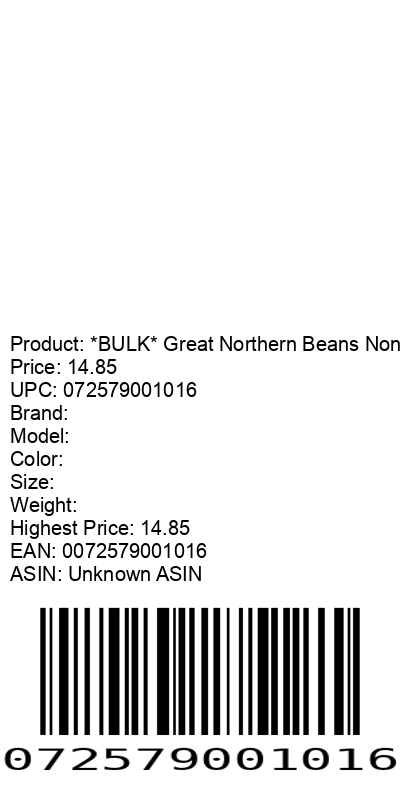
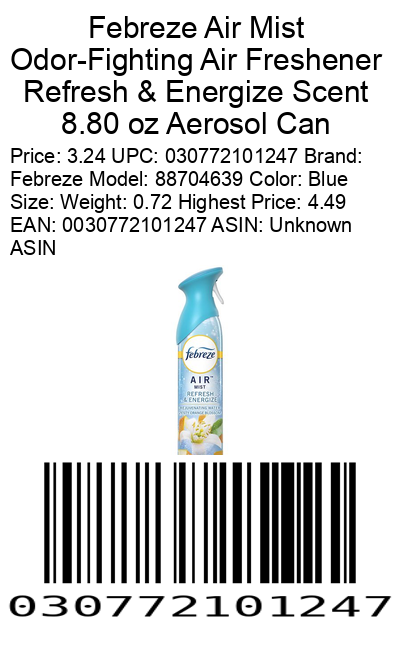
Update .gitignore and enhance UPC data fetching and label printing functionality

Changed region(s): [[0.0, 0.0, 1.0, 0.9846], [0.93, 0.8923, 0.99, 0.9846]]

diff --git a/fetch_upc.py b/fetch_upc.py
@@ -46,7 +46,8 @@ def fetch_upc_data(upc_code: str):
             "weight": item.get("weight", "Unknown Weight"),
             "highest_price": item.get("highest_recorded_price", 0.0),
             "ean": item.get("ean", "Unknown EAN"),
-            "asin": item.get("asin", "Unknown ASIN")
+            "asin": item.get("asin", "Unknown ASIN"),
+            "images": item.get("images", [])
         }
     return {
         "upc": upc_code,
@@ -61,7 +62,8 @@ def fetch_upc_data(upc_code: str):
         "weight": "Unknown Weight",
         "highest_price": 0.0,
         "ean": "Unknown EAN",
-        "asin": "Unknown ASIN"
+        "asin": "Unknown ASIN",
+        "images": []
     }
 
 def generate_barcode(upc_code: str, file_path: str):
@@ -69,48 +71,85 @@ def generate_barcode(upc_code: str, file_path: str):
     barcode_obj.save(file_path.split('.')[0])  # Save without the extension to avoid double extension
 
 def print_label(info: dict, printer_name: str):
-    label_text = (
-        f"Product: {info.get('name')}\n"
-        f"Price: {info.get('price')}\n"
-        f"UPC: {info.get('upc')}\n"
-        f"Brand: {info.get('brand')}\n"
-        f"Model: {info.get('model')}\n"
-        f"Color: {info.get('color')}\n"
-        f"Size: {info.get('size')}\n"
-        f"Weight: {info.get('weight')}\n"
-        f"Highest Price: {info.get('highest_price')}\n"
-        f"EAN: {info.get('ean')}\n"
-        f"ASIN: {info.get('asin')}\n"
-    )
+    product_name = info.get('name')
+    label_text = ""
     
+    if info.get('price') != 0.0:
+        label_text += f"Price: {info.get('price')}\n"
+    if info.get('upc') != "Unknown UPC":
+        label_text += f"UPC: {info.get('upc')}\n"
+    if info.get('brand') != "Unknown Brand":
+        label_text += f"Brand: {info.get('brand')}\n"
+    if info.get('model') != "Unknown Model":
+        label_text += f"Model: {info.get('model')}\n"
+    if info.get('color') != "Unknown Color":
+        label_text += f"Color: {info.get('color')}\n"
+    if info.get('size') != "Unknown Size":
     # Create an image for the label
     label_image = Image.new('RGB', (400, 800), color='white')
     draw = ImageDraw.Draw(label_image)
     
-    # Load a font
+    # Load fonts
     try:
-        font = ImageFont.truetype("arial.ttf", 20)  # Use a larger font size
+        font_large = ImageFont.truetype("arial.ttf", 30)  # Larger font for product name
+        font = ImageFont.truetype("arial.ttf", 20)  # Regular font for other details
     except IOError:
-        font = ImageFont.load_default()  # Fallback to default font if "arial.ttf" is not available
+        font_large = ImageFont.load_default()
+        font = ImageFont.load_default()
+    
+    # Wrap text if it goes off the edge of the label
+    def wrap_text(text, font, max_width):
+        lines = []
+        words = text.split()
+        while words:
+            line = ''
+            while words and draw.textbbox((0, 0), line + words[0], font=font)[2] <= max_width:
+                line += (words.pop(0) + ' ')
+            lines.append(line)
+        return '\n'.join(lines)
+    
+    wrapped_product_name = wrap_text(product_name, font_large, 380)  # 380 to account for padding
+    wrapped_label_text = wrap_text(label_text, font, 380)  # 380 to account for padding
     
     # Calculate text height
-    text_width, text_height = draw.textbbox((0, 0), label_text, font=font)[2:]
+    product_name_width, product_name_height = draw.textbbox((0, 0), wrapped_product_name, font=font_large)[2:]
+    text_width, text_height = draw.textbbox((0, 0), wrapped_label_text, font=font)[2:]
     
-    # Draw the text on the image, ensuring it is justified
-    draw.multiline_text((10, 800 - text_height - 215), label_text, fill='black', font=font)
+    # Adjust label height based on text height
+    label_height = product_name_height + text_height + 415  # Add some padding for the barcode, product image, and margins
+    label_image = Image.new('RGB', (400, label_height), color='white')
+    draw = ImageDraw.Draw(label_image)
+    
+    # Draw the product name centered
+    product_name_x = (400 - product_name_width) // 2
+    draw.multiline_text((product_name_x, 10), wrapped_product_name, fill='black', font=font_large, align="center")
+    
+    # Draw the text on the image, left justified
+    draw.multiline_text((10, product_name_height + 20), wrapped_label_text, fill='black', font=font, align="left")
+    
+    # Draw product image if available
+    if 'images' in info and info['images']:
+        try:
+            product_image_url = info['images'][0]
+            product_image = Image.open(requests.get(product_image_url, stream=True).raw)
+            product_image.thumbnail((380, 200), Image.LANCZOS)  # Maintain aspect ratio
+            product_image_x = (400 - product_image.width) // 2
+            label_image.paste(product_image, (product_image_x, product_name_height + text_height + 30))
+        except Exception as e:
+            print(f"Error loading product image: {e}")
     
     if info.get('name') == "Unknown Product":
         # Draw a sad face if no information is found
-        draw.text((150, 700), ":(", fill='black', font=font)
+        draw.text((150, label_height - 100), ":(", fill='black', font=font)
     else:
         # Load the barcode image
         barcode_image = Image.open("barcode.png")
         
-        # Resize the barcode image to fit the bottom quarter
-        barcode_image = barcode_image.resize((400, 200))
+        # Resize the barcode image to fit the bottom quarter with margin
+        barcode_image = barcode_image.resize((390, 190))
         
-        # Paste the barcode image onto the label image
-        label_image.paste(barcode_image, (0, 600))
+        # Paste the barcode image onto the label image with margin
+        label_image.paste(barcode_image, (5, label_height - 195))
     
     # Save the final label image
     label_image.save("label.png")
